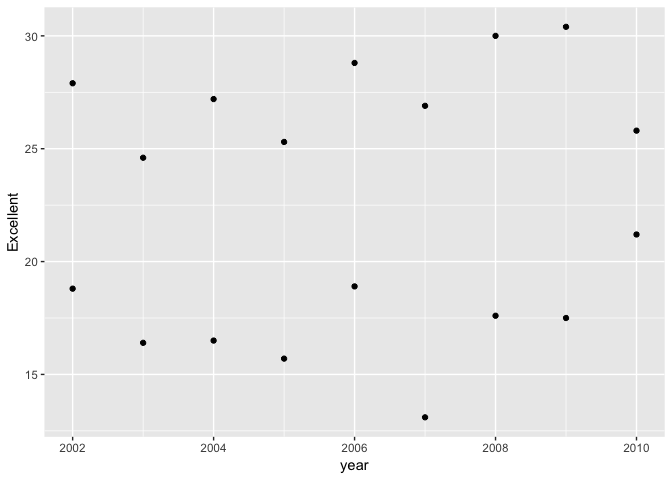
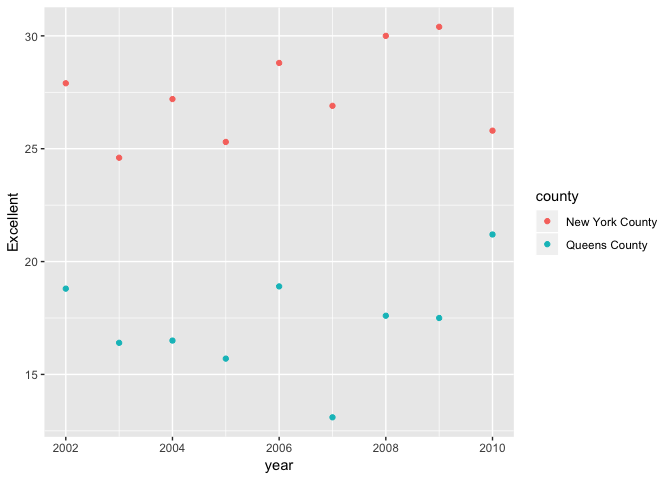
Proofread final draft

diff --git a/p8105_hw2_ag3911.md b/p8105_hw2_ag3911.md
@@ -1,4 +1,4 @@
-p8105\_hw2\_ag3911
+Homework 2: Amelia Grant-Alfieri, ag3911
 ================
 
 # Problem 1: NYC Subway Transit
@@ -6,8 +6,8 @@ p8105\_hw2\_ag3911
 ## Read and Clean Data
 
 *Keep line, station, name, station latitude/longitude, routes served,
-entry, vending, entrance type, and ADA compliance *Convert entry
-variable from character (yes/no) to logical
+entry, vending, entrance type, and ADA compliance. Convert entry
+variable from character (yes/no) to logical.*
 
 ``` r
 library(tidyverse)
@@ -43,14 +43,14 @@ subway_data
     ## #   entry <lgl>, vending <chr>, ada <lgl>
 
 This dataset contains the following variables: line, station name,
-station latitude/longitude, which of the 11 routes are served, entry
-(true/false), vending (yes/no), entrance type (elevator, stair, door),
-and ADA compliance (true/false). I omitted unnecessary variables using
-‘select’ and recoded the entry variable from character to logical
-using ‘mutate’ and ‘recode’. The resulting dataset is 1,868 rows x 19
-columns. The data are not tidy because there are 11 variables for route
-when there should only be 2: one for the total number of routes and one
-for the route’s identifying letter/number.
+station latitude/longitude, route 1 through 11, entry (true/false),
+vending (yes/no), entrance type, and ADA compliance (true/false). I
+omitted unnecessary variables using ‘select’ and recoded the entry
+variable from character to logical using ‘mutate’ and ‘recode’. The
+resulting dataset is 1,868 rows x 19 columns. The data are not tidy
+because there are 11 variables for route when there should only be 2:
+one for the route number (1 through 11) and one for the route’s
+identifying letter/number (e.g. A, M, 3) .
 
 ## Q1: How many distinct stations are there?
 
@@ -97,27 +97,7 @@ entrance.
 
 ``` r
 tidy_subway_data = gather(subway_data, key = route_num, value = route_name, route1:route11)
-# how to do this with nested %>% code? also, can't I now delete the route_num bc seems to have no purpose? 
-tidy_subway_data
-```
 
-    ## # A tibble: 20,548 x 10
-    ##    line  station_name station_latitude station_longitu… entrance_type entry
-    ##    <chr> <chr>                   <dbl>            <dbl> <chr>         <lgl>
-    ##  1 4 Av… 25th St                  40.7            -74.0 Stair         TRUE 
-    ##  2 4 Av… 25th St                  40.7            -74.0 Stair         TRUE 
-    ##  3 4 Av… 36th St                  40.7            -74.0 Stair         TRUE 
-    ##  4 4 Av… 36th St                  40.7            -74.0 Stair         TRUE 
-    ##  5 4 Av… 36th St                  40.7            -74.0 Stair         TRUE 
-    ##  6 4 Av… 45th St                  40.6            -74.0 Stair         TRUE 
-    ##  7 4 Av… 45th St                  40.6            -74.0 Stair         TRUE 
-    ##  8 4 Av… 45th St                  40.6            -74.0 Stair         TRUE 
-    ##  9 4 Av… 45th St                  40.6            -74.0 Stair         TRUE 
-    ## 10 4 Av… 53rd St                  40.6            -74.0 Stair         TRUE 
-    ## # ... with 20,538 more rows, and 4 more variables: vending <chr>,
-    ## #   ada <lgl>, route_num <chr>, route_name <chr>
-
-``` r
 tidy_subway_data %>%
     count(station_name, line, route_name) %>%
     filter(route_name == "A") %>%
@@ -153,10 +133,10 @@ Of the stations that serve the A train, 17 are ADA compliant.
 
 ## Read and Clean Mr. Trashwheel Sheet Data
 
-*specify the sheet in the Excel file *omit columns containing notes
-*omit rows that do not include dumpster-specific data *round the number
+*Specify the sheet in the Excel file. Omit columns containing notes.
+Omit rows that do not include dumpster-specific data. Round the number
 of sports balls to the nearest integer and convert the result to an
-integer variable (using as.integer)
+integer variable (using as.integer).*
 
 ``` r
 library(readxl)
@@ -168,9 +148,9 @@ trash_data = readxl::read_excel("./hw2 data/HealthyHarborWaterWheelTotals2017-9-
 
 ## Read and Clean 2016 and 2017 Precipitation Sheets Data
 
-*omit rows without precipitation data and add a variable year *combine
+*Omit rows without precipitation data and add a variable year. Combine
 datasets and convert month to a character variable, use the variable
-‘month.name’
+‘month.name’.*
 
 ``` r
 precip_16_data = readxl::read_excel("./hw2 data/HealthyHarborWaterWheelTotals2017-9-26.xlsx", sheet = "2016 Precipitation", skip = 2, col_names = FALSE) %>%
@@ -206,8 +186,6 @@ precip_bind %>%
     ##                 <dbl>
     ## 1                29.9
 
-### In a paragraph (use inline R), note the number of observations in both resulting datasets, and give examples of key variables. For available data, what was the total precipitation in 2017? What was the median number of sports balls in a dumpster in 2016?
-
 The edited trash dataset has dimensions 215, 14. The joined and edited
 precipitation dataset has dimensions 20, 3. The total precipitation in
 2017 was 29.93. The median of number of sports balls in a dumpster in
@@ -218,12 +196,12 @@ precipitation dataset has dimensions 20, 3. The total precipitation in
 
 ## Read and Clean BRFSS data
 
-*format the data to use appropriate variable names *exclude variables
+*Format the data to use appropriate variable names. Exclude variables
 for class, topic, question, sample size, and everything from lower
-confidence limit to GeoLocation *structure data so that responses
-(excellent to poor) are variables taking the value of Data\_value
-*create a new variable showing the proportion of responses that were
-“Excellent” or “Very Good”
+confidence limit to GeoLocation. Structure data so that responses
+(excellent to poor) are variables taking the value of Data\_value.
+Create a new variable showing the proportion of responses that were
+“Excellent” or “Very Good”.*
 
 ``` r
 #install.packages("devtools", force = TRUE)
@@ -246,10 +224,6 @@ brfss <- brfss_smart2010 %>%
   spread(key = response, value = "Overall Health Score")
 
 brfss$ex_or_vg_prop = brfss$`Very good` + brfss$Excellent
-
-#brfss$ex_or_vg_num =  brfss$`Very good` +  brfss$Excellent #calculate numerator (the sum of very good or excellent responses)
-#brfss$ex_or_vg_denom = sum(brfss$Excellent: brfss$`Very good`) #calculate denominator (the sum of all responses)
-#brfss$prop = brfss$ex_or_vg_num/brfss$ex_or_vg_denom
 ```
 
 ## Q1: How many unique locations are included in the dataset?
@@ -308,18 +282,15 @@ ggplot(brfss_02, aes(x = Excellent)) + geom_histogram()
 
     ## `stat_bin()` using `bins = 30`. Pick better value with `binwidth`.
 
-    ## Warning: Removed 2 rows containing non-finite values (stat_bin).
-
 ![](p8105_hw2_ag3911_files/figure-gfm/unnamed-chunk-14-1.png)<!-- -->
 
 ## Q6: Make a scatterplot showing the proportion of “Excellent” response values in New York County and Queens County (both in NY State) in each year from 2002 to 2010.
 
 ``` r
-#brfss$ex_prop = brfss$Excellent/sum(brfss$Excellent:brfss$`Very good`) 
 brfss_NY_state = filter(brfss, state == "NY")
 brfss_NYC_Queens = filter(brfss_NY_state, county == "New York County" | county == "Queens County")
 
-ggplot(brfss_NYC_Queens, aes(x = year, y = Excellent)) + geom_point()
+ggplot(brfss_NYC_Queens, aes(x = year, y = Excellent, color = county)) + geom_point()
 ```
 
 ![](p8105_hw2_ag3911_files/figure-gfm/unnamed-chunk-15-1.png)<!-- -->
